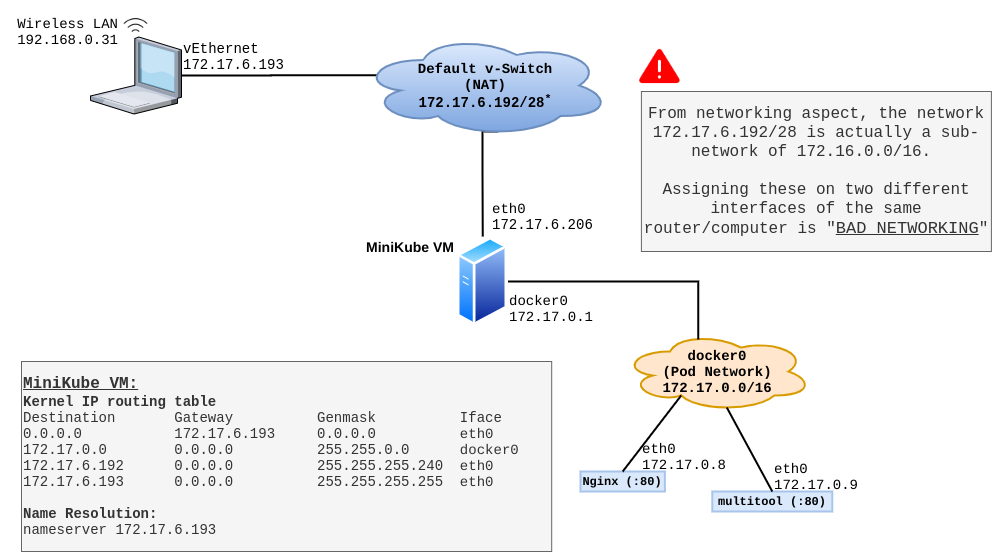
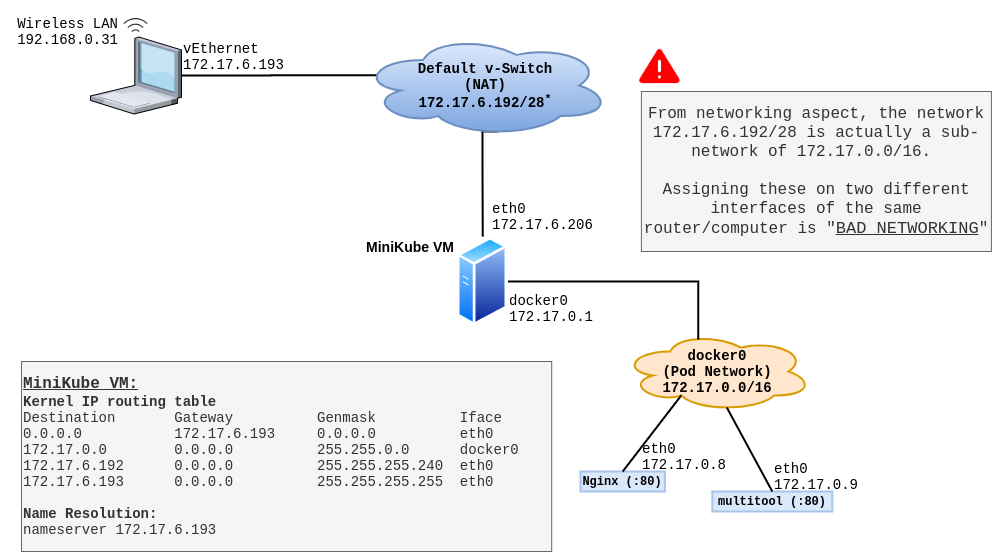
Fixed an error in network scheme. Updated diagrams accordingly.

diff --git a/Minikube-Internals-Fedora.md b/Minikube-Internals-Fedora.md
@@ -4,7 +4,7 @@ Minikube is a simple single-node kubernetes cluster, which installs easily on yo
 
 The emphasis is on having minikube *running as a VM*, (not as a process on docker), because this takes away all the possible complexity away from your local computer. It (minikube VM) makes setting up and running the kubernetes cluster very easy. 
 
-First, if you installed minikube **on Linux** *and* **used KVM for Virtualization**, then congratulations, you made the best choice! :) The reason is, Linux and KVM setup is very simple and straight-forward. There is nothing hidden, complicated, fearful or frustrating - as it is the case with Windows and VirtualBox/HyperV. 
+First, if you installed minikube **on Linux** *and* **used KVM for Virtualization**, then congratulations, you made the best choice! :) The reason is, Linux and KVM setup is very simple and straight-forward. There is nothing hidden, complicated, fearful or frustrating - as it is the case with Windows and VirtualBox/Hyper-V. 
 
 This article discusses advanced concepts about minikube VM, running in KVM, on Fedora Linux.
 
@@ -21,11 +21,40 @@ Basically, I found no documentation on this topic so far. Minikube's documentati
 
 Below is my understanding so far. 
 
-This is some silliness from `docker-machine`, which has crept into the KVM setup from the VirtualBox setup. Just so you know, minikube uses `docker-machine` internally to setup the VM on a given hypervisor. Now, VirtualBox has very weird networking; and when docker-machine is used to setup a docker environment on VirtualBox, it uses two networks, one to access the VM, and the other for the VM to access the Internet. When `minikube` needed this (docker) setup for KVM, someone from docker-machine team - not confirmed yet, but most probably - copied the same design and applied to KVM/libvirt, which was completely unnecessary, and just complicated things. KVM is very capable, simple and efficient hypervisor, and it does not need any *"workarounds"* . Treating KVM and VirtualBox in the same way is unfair with KVM. 
+This is some silliness from `docker-machine`, which has crept into the KVM setup from the VirtualBox setup. Just so you know, minikube uses `docker-machine` internally to setup the VM on a given Hypervisor. (... and, docker-machine uses boot2docker.iso internally!). Now, VirtualBox has very weird networking; and when docker-machine is used to setup a docker environment on VirtualBox, it uses two networks, one (HostOnly network) to access the VM, and the other (NAT network) for the VM to access the Internet. When `minikube` needed this (docker) setup for KVM, someone from docker-machine team - (most probably, but not confirmed) - copied the same design and applied to KVM/libvirt, which was completely unnecessary, and just complicated things. KVM is very capable, simple and efficient Hypervisor, and it does not need any *"workarounds"* . Treating KVM and VirtualBox in the same way is unfair with KVM. 
 
-I later checked minikube on Windows-10/Hyper-V, and found out that minikube's setup *does not* create the additional *isolated network* on Hyper-V the way it did on Linux. Instead it simply uses Hyper-V's *default* network for accessing the minikube VM from the host, and for the minikube VM to access the Internet. Simple! 
+I later checked minikube on Windows-10/Hyper-V, and found out that minikube's setup *does not* create the additional *host only* / *isolated network* on Hyper-V, the way it did on Linux. Instead it simply uses Hyper-V's *default* network for accessing the minikube VM from the host, and for the minikube VM to access the Internet. Simple! 
 
-I don't know why minikube and/or docker-machine team decided to go the *"two networks"* route for KVM.
+I found two links on the internet, where there was direct reference to **"two networks"**, first one is [https://github.com/dhiltgen/docker-machine-kvm](https://github.com/dhiltgen/docker-machine-kvm). 
+
+It says:
+
+> eth1 - A host private network called docker-machines is automatically created to ensure we always have connectivity to the VMs. The docker-machine ip command will always return this IP address which is only accessible from your local system.
+
+> eth0 - You can specify any libvirt named network. If you don't specify one, the "default" named network will be used.
+
+
+The other one was on this URL: [https://github.com/boot2docker/boot2docker-cli](https://github.com/boot2docker/boot2docker-cli) 
+
+It says:
+
+> This tool downloads the boot2docker ISO image, creates a VirtualBox virtual machine, sets up two networks for that virtual machine (one NAT to allow the VM and containers to access the internet, the other host-only to allow container port mapping to work securely), and then provides the user a simple way to login via SSH.
+
+It also says that: *"This project is officially deprecated in favor of Docker Machine."* . 
+
+When I checked Docker-Machine's documentation, I found that it uses **boot2docker.iso** . If you check the links I provided below, you will find clear evidence of `boot2docker` being used by `docker-machine` to provision virtual machines on VirtualBox or Hyper-V. Moreover, you will notice that the document describing VirtualBox setup shows command line switches for *"host-only"* and *"NAT"* networks; and, the document describing Hyper-V setup shows command line switches to use only one *"external"* network. 
+
+On Docker's website, I found all the the links talking about VirtualBox and Hyper-V only. Unfortunately, I did not find any official *Docker* documentation of `docker-machine` setup on **KVM**. Very disappointing. It does not even list **KVM** on the [list of drivers](https://docs.docker.com/machine/drivers/) - at all! Very strange! 
+
+
+Reference links:
+* [https://github.com/boot2docker/boot2docker-cli](https://github.com/boot2docker/boot2docker-cli)
+* [https://docs.docker.com/machine/get-started/](https://docs.docker.com/machine/get-started/)
+* [https://docs.docker.com/machine/drivers/virtualbox/](https://docs.docker.com/machine/drivers/virtualbox/)
+* [https://docs.docker.com/machine/drivers/hyper-v/](https://docs.docker.com/machine/drivers/hyper-v/)
+* [https://docs.docker.com/machine/drivers/](https://docs.docker.com/machine/drivers/)
+* [https://github.com/dhiltgen/docker-machine-kvm](https://github.com/dhiltgen/docker-machine-kvm)
+* [https://access.redhat.com/documentation/en-us/red_hat_container_development_kit/3.0/html/installation_guide/docker-machine-driver-install](https://access.redhat.com/documentation/en-us/red_hat_container_development_kit/3.0/html/installation_guide/docker-machine-driver-install) 
 
 ## More networking details about the MiniKube VM:
 The minikube bootstrap process talks to the Hypervisor - KVM in our case - and dictates how the VM will be setup, such as:
@@ -34,7 +63,7 @@ The minikube bootstrap process talks to the Hypervisor - KVM in our case - and d
 * size of disk
 * network cards, and the network to which each network card connects
 
-When you pass the `--driver=kvm2` on the `minikube start` command, minikube configures itself to talk to KVM to get things done. That handles the *"talking to the Hypervisor"* part. When the VM is being created, the DHCP services serving/attached to each virtual network, assign an IP address to the corresponding network interface on the VM. This IP address can be queried/obtained directly from the hypervisor. e.g.
+When you pass the `--driver=kvm2` on the `minikube start` command, minikube configures itself to talk to KVM to get things done. That handles the *"talking to the Hypervisor"* part. When the VM is being created, the DHCP services serving/attached to each virtual network, assign an IP address to the corresponding network interface on the VM. This IP address can be queried/obtained directly from the Hypervisor. e.g.
 
 ```
 [root@kworkhorse ~]# virsh net-list
@@ -89,7 +118,7 @@ During the bootstrap process minikube uses this (main) IP address to configure v
 All of above happens when you use `minikube start --driver=kvm2` command. Minikube performs all these checks every time you `start` the VM from the *stopped* state. If, for some reason, the IP changes, minikube bootstrap process updates all necessary files. 
 
 ### Minikube IP:
-`minikube ip` command **never** returns you the IP of the VM when the minikube VM is in stopped state. It does not just read the IP from config file and shows it to you. It actually queries the hypervisor each time `minikube ip` command is issued and depending on the VM's state, either shows the IP currently assigned to the VM by KVM's DHCP service (serving/connected to the isolated network), or refuses to show it to you if the VM is found in the stopped state. Below are examples of both cases:
+`minikube ip` command **never** returns you the IP of the VM when the minikube VM is in stopped state. It does not just read the IP from config file and shows it to you. It actually queries the Hypervisor each time `minikube ip` command is issued and depending on the VM's state, either shows the IP currently assigned to the VM by KVM's DHCP service (serving/connected to the isolated network), or refuses to show it to you if the VM is found in the stopped state. Below are examples of both cases:
 
 ```
 [kamran@kworkhorse ~]$ minikube ip

diff --git a/Minikube-Internals-Windows.md b/Minikube-Internals-Windows.md
@@ -11,21 +11,21 @@ This article discusses advanced concepts about minikube VM, running in Hyper-V, 
 
 Here is the diagram for a quick recap.
 
-| ![images/minikube-network-hyperv.png](images/minikube-network-hyperv.png) |
+| ![images/minikube-network-Hyper-V.png](images/minikube-network-Hyper-V.png) |
 | ------------------------------------------------------------------------- |
 
 
 ### Windows Host network configuration:
-Lets go straight to HyperV vswitch. It is **"not configurable/manageable"** by the user. You are at Microsoft's mercy here. 
+Lets go straight to Hyper-V vswitch. It is **"not configurable/manageable"** by the user. You are at Microsoft's mercy here. 
 
 
-| ![images/hyperv-vswitch-1.png](images/hyperv-vswitch-1.png) |
+| ![images/Hyper-V-vswitch-1.png](images/Hyper-V-vswitch-1.png) |
 | ----------------------------------------------------------- |
 
-| ![images/hyperv-vswitch-2.png](images/hyperv-vswitch-2.png) |
+| ![images/Hyper-V-vswitch-2.png](images/Hyper-V-vswitch-2.png) |
 | ----------------------------------------------------------- |
 
-| ![images/hyperv-vswitch-3.png](images/hyperv-vswitch-3.png) |
+| ![images/Hyper-V-vswitch-3.png](images/Hyper-V-vswitch-3.png) |
 | ----------------------------------------------------------- |
 
 
@@ -175,7 +175,7 @@ The IP addresses from this subnet are:
 
 The IP address assigned to the minikube VM is `192.168.241.250`, which of-course is from within the usable IP range.
 
-I don't know why Microsoft decided to assign a very limited network to the virtual switch. Remember, this vSwitch is *not* created by minikube. It is created when you install HyperV for the first time.
+I don't know why Microsoft decided to assign a very limited network to the virtual switch. Remember, this vSwitch is *not* created by minikube. It is created when you install Hyper-V for the first time.
 
 Here is the routing table from the minikube VM:
 ```
@@ -328,12 +328,12 @@ Note: The default output of `iptables-save` is very detailed and cryptic. The ou
 
 # How Hyper-V on Windows implements "bad networking":
 
-One of the major problem with HyperV's default vSwitch is that we cannot configure it, nor can we see how it is configured. It can dream/decide/generate any IP network scheme for the vSwitch at any given time, and the VMs have no choice but to use it. This is can cause a problem, especially when the vSwitch network has some sort of conflict with some other network on another network interface of the VM connected to it.
+One of the major problem with Hyper-V's default vSwitch is that we cannot configure it, nor can we see how it is configured. It can dream/decide/generate any IP network scheme for the vSwitch at any given time, and the VMs have no choice but to use it. This is can cause a problem, especially when the vSwitch network has some sort of conflict with some other network on another network interface of the VM connected to it.
 
-This *sometimes* is actually a *routine* when you are using minikube on Windows 10, using HyperV as hypervisor.
+This *sometimes* is actually a *routine* when you are using minikube on Windows 10, using Hyper-V as Hypervisor.
   
 
-| ![images/hyperv-bad-networking.png](images/hyperv-bad-networking.png) |
+| ![images/Hyper-V-bad-networking.png](images/Hyper-V-bad-networking.png) |
 | --------------------------------------------------------------------- |
 
 
@@ -349,21 +349,21 @@ Imagine a situation, when someone is running a local docker service on the Windo
 
 ## Actual incident:
 
-Here is what I experienced recently while working with Minikube on Windows+HyperV . For some reason I had to restart the minikube VM, and I noticed that it got a new IP address assigned to it.
+Here is what I experienced recently while working with Minikube on Windows+Hyper-V . For some reason I had to restart the minikube VM, and I noticed that it got a new IP address assigned to it.
 
 ```
 demouser@windows-10-pro-demo MINGW64 ~
 $ minikube stop
-* Stopping "minikube" in hyperv ...
+* Stopping "minikube" in Hyper-V ...
 * Powering off "minikube" via SSH ...
 * Node "m01" stopped.
 
 demouser@windows-10-pro-demo MINGW64 ~
 $ minikube start
 * minikube v1.9.2 on Microsoft Windows 10 Pro 10.0.18363 Build 18363
-* Using the hyperv driver based on existing profile
+* Using the Hyper-V driver based on existing profile
 * Starting control plane node m01 in cluster minikube
-* Restarting existing hyperv VM for "minikube" ...
+* Restarting existing Hyper-V VM for "minikube" ...
 * Preparing Kubernetes v1.18.0 on Docker 19.03.8 ...
 E0429 05:45:44.621218    3352 kubeadm.go:331] Overriding stale ClientConfig host https://192.168.241.250:8443 with https://172.17.6.206:8443
 * Enabling addons: default-storageclass, ingress, metrics-server, storage-provisioner
@@ -430,8 +430,8 @@ Network Destination        Netmask          Gateway       Interface  Metric
 Based on the IP address and the subnet mask, I calculated the IP addresses from this subnet are:
 * Network (or subnet) address: `172.17.6.192`
 * First usable IP address: `172.17.6.193`  -- being used by Windows Host on it's virtual interface.
-* Last usable IP address: `172.16.6.206`
-* Broadcast address: `172.16.6.207` 
+* Last usable IP address: `172.17.6.206`
+* Broadcast address: `172.17.6.207` 
 
 
 
